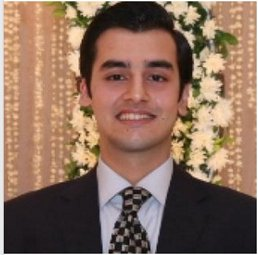
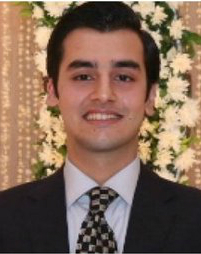
Addititon of team photos

diff --git a/web/team.html b/web/team.html
@@ -154,11 +154,11 @@
     <div class="our-team animate-onscroll fadeIn">
         <div class="container">
             <h2 class="title-style-1">Our Team <span class="title-under"></span></h2>
-            <div class="row">
-                <div class="col-md-4 col-md-offset-2 col-sm-6">
+            <div class="row row-centered">
+                <div class="col-md-3 col-centered">
                     <div class="team-member">
                         <div class="thumnail">
-                            <img src="" alt="" class="cause-img">
+                            <img src="assets/images/team/atilla.jpg" alt="" class="cause-img">
                         </div>
 
                         <h4 class="member-name"><a href="#">ATILLA SZABO</a></h4>
@@ -183,10 +183,10 @@
                     </div> <!-- /.team-member -->
                 </div>
 
-                <div class="col-md-4 col-sm-6">
+                <div class="col-md-3 col-centered">
                     <div class="team-member">
                         <div class="thumnail">
-                            <img src="assets/images/team/#" alt="" class="cause-img">
+                            <img src="assets/images/team/sharon.jpg" alt="" class="cause-img">
                         </div>
                         <h4 class="member-name"><a href="#">SHARON MINOS</a></h4>
                         <div class="member-position">VICE PRESIDENT</div>
@@ -213,12 +213,11 @@
 
             </div> <!-- /.row -->
 
-            <div class="row">
-
-                <div class="col-md-4 col-sm-6">
+            <div class="row row-centered">
+                <div class="col-md-3 col-centered">
                     <div class="team-member">
                         <div class="thumnail">
-                            <img src="assets/images/team/#" alt="" class="cause-img">
+                            <img src="assets/images/team/keith.jpg" alt="" class="cause-img">
                         </div>
                         <h4 class="member-name"><a href="#">KIETH GARRET</a></h4>
                         <div class="member-position">ACADEMIC EXECUTIVE</div>
@@ -241,10 +240,10 @@
                     </div> <!-- /.team-member -->
                 </div>
 
-                <div class="col-md-4 col-sm-6" style="margin-bottom: 20px;">
+                <div class="col-md-3 col-centered">
                     <div class="team-member">
                         <div class="thumnail">
-                            <img src="assets/images/team/#" alt="" class="cause-img">
+                            <img src="assets/images/team/kenzie.jpg" alt="" class="cause-img">
                         </div>
                         <h4 class="member-name"><a href="#">KENZIE ZIMMER</a></h4>
                         <div class="member-position">INTERNAL EXECUTIVE - LOGISTICS</div>
@@ -269,10 +268,10 @@
                     </div> <!-- /.team-member -->
                 </div>
 
-                <div class="col-md-4 col-sm-6">
+                <div class="col-md-3 col-centered">
                     <div class="team-member">
                         <div class="thumnail">
-                            <img src="assets/images/team/#" alt="" class="cause-img">
+                            <img src="assets/images/team/saad.jpg" alt="" class="cause-img">
                         </div>
                         <h4 class="member-name"><a href="#">SAAD SALEEM</a></h4>
                         <div class="member-position">INTERNAL EXECUTIVE - FINANCE</div>

diff --git a/web/assets/css/style.css b/web/assets/css/style.css
@@ -2639,3 +2639,14 @@ form .alert {
         padding-left: 240px !important;
     }
 }
+.row-centered {
+    text-align:center;
+}
+.col-centered {
+    display:inline-block;
+    float:none;
+    /* reset the text-align */
+    text-align:left;
+    /* inline-block space fix */
+    margin-right:-4px;
+}
